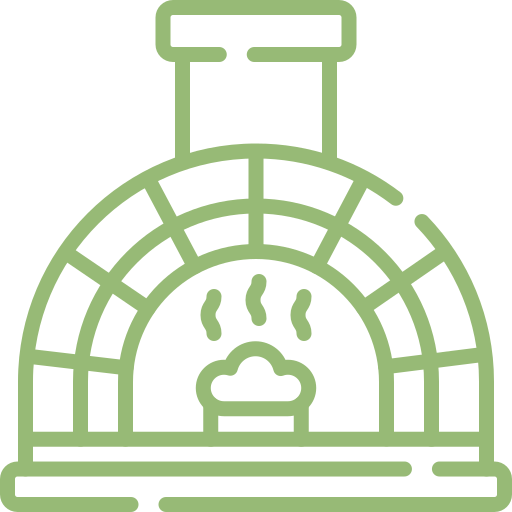
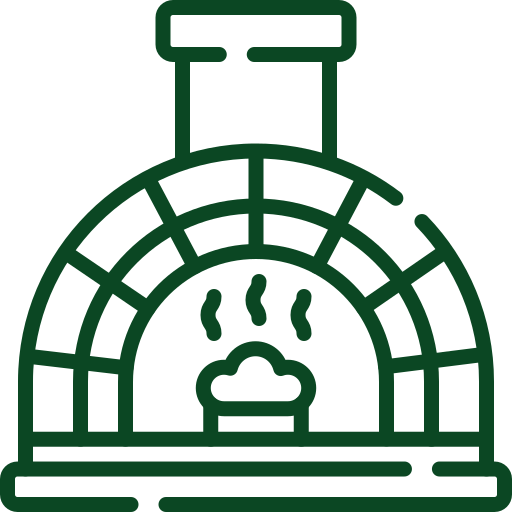
Atualização Color

Changed region(s): [[0.0, 0.0, 1.0, 1.0]]

diff --git a/assets/css/style.css b/assets/css/style.css
@@ -15,7 +15,7 @@
 
 :root{
     --important-color: #f5bf5b;
-    --background-color: #97BA76 ;
+    --background-color: #0b4723 ;
     --firsty-background-color: #f4f4f4 ;
     --secundary-background-color: #eee9e9 ;
     --font-color: #151515;
@@ -82,7 +82,7 @@ header nav ul li a{
     display: flex;
     justify-content: center;
     align-items: center;
-    color: #0b4723;
+    color: var(--background-color);
     font-weight: 600;
 }
 
@@ -342,7 +342,7 @@ footer h3,
 
 .aboutMore:hover{
     background-color: var(--background-color);
-    border: solid 2px var(--important-color);
+    border: solid 2px var(--secundary-background-color);
     color: var(--firsty-background-color);
 }
 
@@ -362,7 +362,7 @@ footer h3,
     display: flex;
     flex-direction: column;
     align-items: center;
-   
+   background-color: var(--secundary-background-color);
     border-radius: 5px;
     
 }
@@ -375,7 +375,7 @@ footer h3,
 }
 
 .highlights ul li{
-    background-color: #f5bf5b69;
+    background-color:#f5bf5b9f;
     height: 200px;
     width: 200px;
     display: flex;
@@ -416,6 +416,7 @@ footer h3,
     justify-content: center;
     align-items: center;
     border-radius: 5px;
+    padding: 1%;
 }
 
 
@@ -481,8 +482,9 @@ footer h3,
     flex-direction: column;
     align-items: center;
     margin-inline: auto;
-    background-color: #97ba766e;
+    background-color: var(--secundary-background-color);
     border-radius: 5px ;
+    box-shadow: 1px 3px 10px 3px #15151513;
     
    
     

diff --git a/index.html b/index.html
@@ -168,23 +168,23 @@
         <section class="highlights">
             <div>
 
-            <h1>Destaques</h1>
+            <h1>Nossos Diferenciais</h1>
             <hr>
             <ul>
                 <li>
                     <figure> <img src="assets/img/destaques/sem-gluten.png" alt="">
                     </figure>
-                    <h5>Sem Glútem</h5>
+                    <h5>Produtos Sem Glúten</h5>
                 </li>
                 <li>
                     <figure> <img src="assets/img/destaques/livre-de-laticinios.png" alt="">
                     </figure>
-                    <h5>Sem Lactose</h5>
+                    <h5>Produtos Sem Lactose</h5>
                 </li>
                 <li>
-                    <figure> <img src="assets/img/destaques/sem-conservantes.png" alt="">
+                    <figure> <img src="assets/img/destaques/sem-conservantes (1).png" alt="">
                     </figure>
-                    <h5>Sem Conservantes</h5>
+                    <h5>Livre de Conservantes</h5>
                 </li>
                 <li>
                     <figure> <img src="assets/img/destaques/forno.png" alt="">
